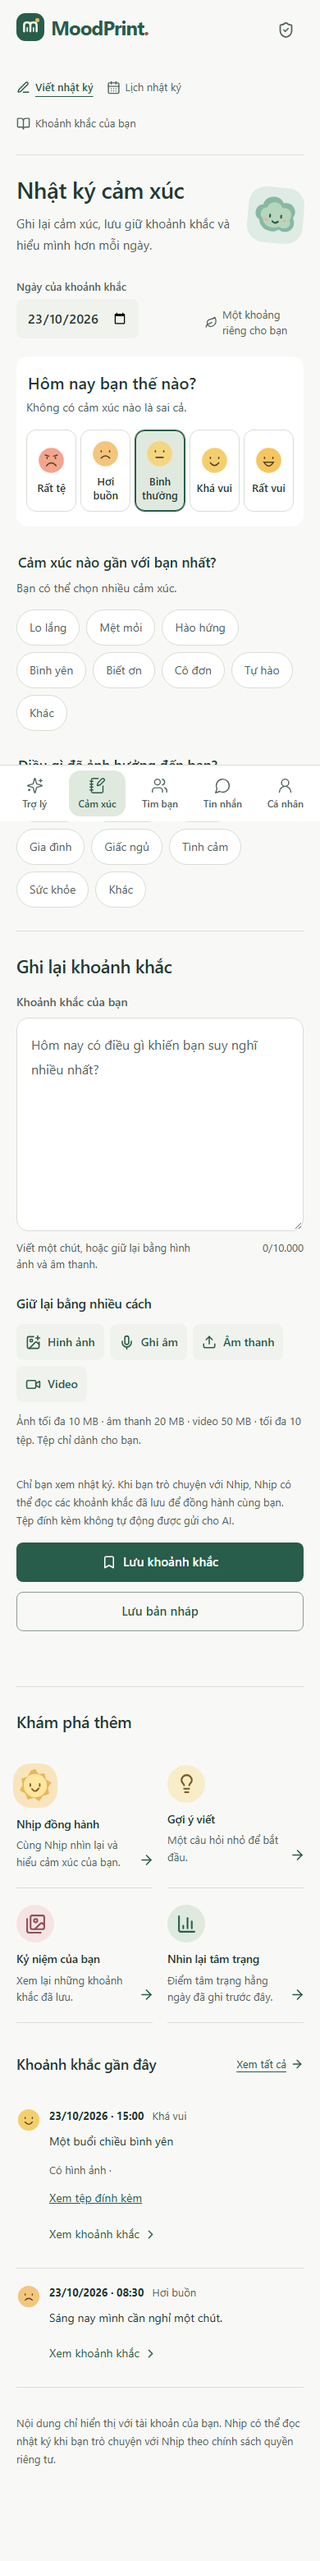
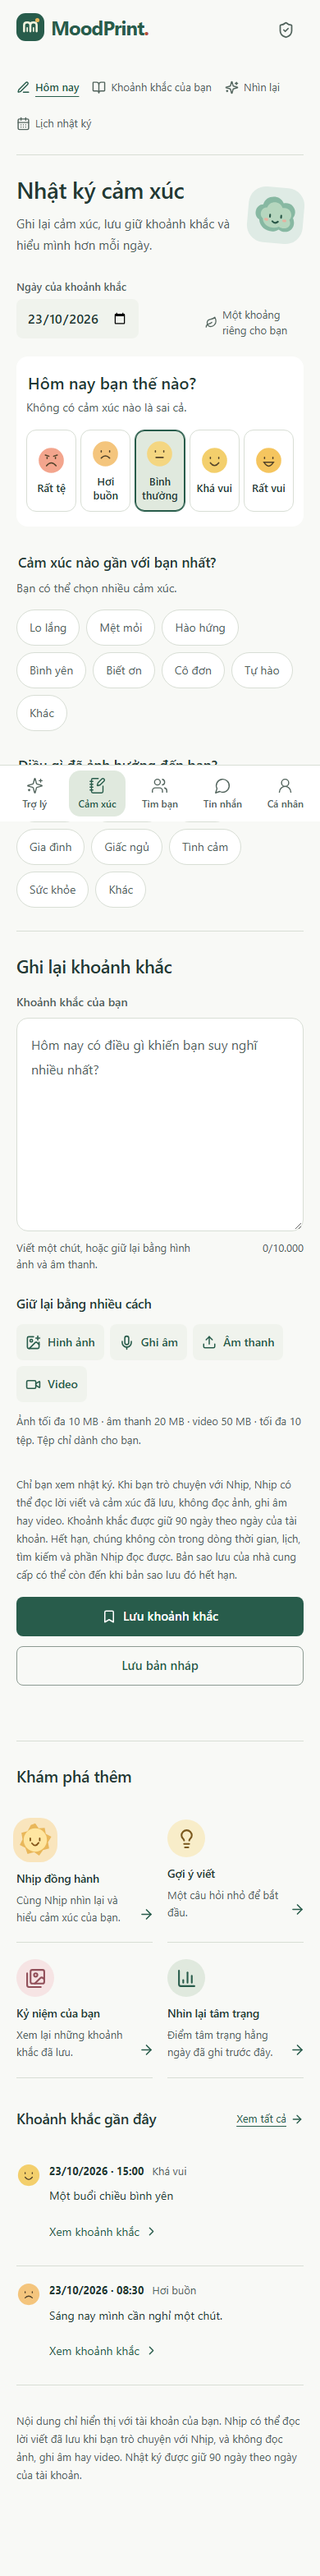
docs(diary): record the blocked migration and timeline QA
Hosted revision 0018 cannot take 0019 while production readiness rejects it. The new reports keep that block separate from the timeline and export-control evidence.

diff --git a/docs/implementation-plans/diary/16-finalization-audit.md b/docs/implementation-plans/diary/16-finalization-audit.md
@@ -1,0 +1,18 @@
+# Diary V2 finalization audit
+
+Branch `feat/diary-experience-v2`. Prior head `2639996dda1eb5777b80c50b0f17bc7202c844ac` matched Draft PR #23 and had a successful `Verify local application` run. This audit records the finalization pass on top of that head. Historical reports [14](14-implementation-progress.md) and [15](15-final-report.md) are unchanged.
+
+| Task | Status | Evidence |
+| --- | --- | --- |
+| F01 Git and PR preflight | PASS | Workspace `E:\MoodPrint`, branch `feat/diary-experience-v2`, remote `origin` GitHub, PR #23 draft, base `main`, mergeable, prior CI success on `2639996`. Unrelated working-tree files (`.gitignore`, `docs/mvp-validation/`, `frontend/evidence/`) were left unstaged. |
+| F02 Supabase project identity | PASS | Management API project `roznanxbiyqybjpvtilq`, name `database`, region `ap-northeast-1`, status `ACTIVE_HEALTHY`, host `db.roznanxbiyqybjpvtilq.supabase.co`, Postgres `17.11`. `backend/.env` contains the same project ref. See [17](17-hosted-migration-verification.md). |
+| F03 Hosted migration 0019 | BLOCKED | Hosted `moodprint.alembic_version` is `0018_app_feedback`. Journal tables are absent. `origin/main` `READY_REVISIONS` is only `0018_app_feedback`, and readiness rejects any other revision. Applying 0019 would fail the deployed app. No compatibility release was deployed. |
+| F04 90-day retention | PASS | Policy unchanged in `journalDateWindow` (89 days back through today) and existing purge tests. Vietnamese explanation added on the composer, home note, and timeline. Provider backups are not claimed to expire immediately. |
+| F05 Export removal | PARTIAL | User-facing download controls removed. Authenticated `/exports` and conversation export routes remain as the owner-scoped data-access path. See [19](19-export-removal-audit.md). |
+| F06 Nhịp text only | PASS | Existing `search_for_ai` returns text, mood, emotions, factors, date, and version only. A key-set assertion was added in `test_journal_ai.py`. No image, audio, or video understanding was added. See [20](20-nhip-text-only-contract.md). |
+| F07 Personal timeline | PASS | Feed grouping, galleries, lightbox, native audio/video, text expansion, edit/delete, and scroll restoration. See [18](18-personal-timeline-redesign.md). |
+| F08 Composer, calendar, discovery | PASS | Existing composer, calendar, and four discovery destinations kept. Prompts updated. “Nhìn lại” opens the Nhịp reflection page, which links to the daily mood chart. |
+| F09 Automated UI verification | PASS | `npm run typecheck`, `npm test` (103), `npm run build`, and Playwright `journal`, `auth`, `chat-history`, `ux-redesign` (100 passed). Axe on the journal surfaces in `journal.spec.ts` reported no violations. |
+| F10 Backend suite for this delta | PARTIAL | The new Nhịp key-set assertion was not executed against PostgreSQL in this session. Prior CI on `2639996` passed the previous suite. The next CI run on this branch is the complete gate. |
+
+Ruling: hosted migration stays blocked until a release whose readiness accepts `0019_journal` is the deployed application, or until an explicitly authorized compatibility release accepts both `0018_app_feedback` and `0019_journal` before the schema move. Additive tables alone do not make the current production image ready.

diff --git a/docs/implementation-plans/diary/18-personal-timeline-redesign.md b/docs/implementation-plans/diary/18-personal-timeline-redesign.md
@@ -1,0 +1,37 @@
+# Personal timeline redesign
+
+Status: **PASS** for the journal surfaces exercised by Playwright.
+
+## What changed
+
+| Area | Change | Files |
+| --- | --- | --- |
+| Destinations | Nhật ký nav is Hôm nay, Khoảnh khắc của bạn, Nhìn lại, and Lịch nhật ký. | `JournalShared.tsx` |
+| Feed | Saved entries group by account-local day (Hôm nay, Hôm qua, or a date) and by month. Newest-first order stays the API order. Paging remains 12 items. | `JournalTimeline.tsx`, `journalModel.ts` |
+| Cards | Time, mood, text with Xem thêm after 220 characters, emotion/factor tags, edit, and confirmed delete. | `JournalShared.tsx` |
+| Images | One, two, three, and four-up grids. Further images show +N. A dialog lightbox supports next, previous, and Escape. URLs load when the cell is near the viewport. | `JournalGallery.tsx`, `journal.css` |
+| Audio and video | Native controls, `preload="none"`, no timeline autoplay. Signed URLs load when the player is near the viewport. | `JournalGallery.tsx` |
+| Text-only moments | No empty media slot. | `JournalEntryCard` |
+| Return scroll | Opening or editing a card stores `journal-feed-scroll` and the feed restores it once. | `JournalShared.tsx`, `JournalTimeline.tsx` |
+| Composer | Mood selection uses a short GSAP scale when motion is allowed. Retention and text-only Nhịp copy sit under the form. | `JournalEditor.tsx` |
+| Prompts | Four optional Vietnamese questions, including smile, thought, thanks, and what made the day memorable. | `journalModel.ts` |
+| Nhìn lại | Companion page keeps Nhịp questions and links to the existing daily mood chart. | `JournalPage.tsx` |
+| Motion | `useMotionPolicy` gates GSAP. Reduced motion skips the feed and mood animations. Contexts use `useGSAP` with revert. | `JournalEditor.tsx`, `JournalTimeline.tsx` |
+
+Calendar behavior was kept: month navigation, mood marker, multi-entry count, and day list. It does not invent moods for empty days. Expired entries stay outside the 90-day query window already enforced by the API and `activeMonthBounds`.
+
+## Tests
+
+- `journalModel.test.ts` covers day labels and grouping. Frontend unit suite: 103 passed.
+- `tests/e2e/journal.spec.ts` passed, including filters, paging, six widths, axe, and the timeline image becoming visible without a separate “Xem tệp đính kèm” step.
+- The timeline evidence PNG uses the suite’s 1×1 fixture image, so it does not demonstrate a photographic collage. The layout CSS is what a real image fills.
+
+## Critique
+
+The rendered mobile check-in and desktop composer keep the warm off-white page, sage selection, and existing left navigation. The timeline reads as a dated list rather than a table. Important points that remain:
+
+- Card actions sit in one row. Delete is confirmed, but it is still close to Edit on a narrow phone.
+- The retention sentence is plain and below the feed. It is accurate, including the provider-backup limit.
+- Gallery motion is a short entrance only. There is no scroll-jacking.
+
+No Critical contrast or axe failure was reported on the journal page, calendar, timeline, or companion scan in `journal.spec.ts`.

diff --git a/docs/implementation-plans/diary/17-hosted-migration-verification.md b/docs/implementation-plans/diary/17-hosted-migration-verification.md
@@ -1,0 +1,45 @@
+# Hosted migration verification
+
+Status: **BLOCKED**. Migration `0019_journal` was not applied.
+
+## Identity
+
+Read-only Supabase Management API calls, using the configured project token, returned:
+
+| Check | Result |
+| --- | --- |
+| Project ID | `roznanxbiyqybjpvtilq` |
+| Name | `database` |
+| Region | `ap-northeast-1` |
+| Status | `ACTIVE_HEALTHY` |
+| Database host | `db.roznanxbiyqybjpvtilq.supabase.co` |
+| Postgres | `17.11` |
+| Query role | `postgres` (Management API, not the application runtime role) |
+| Local `backend/.env` | Same project ref is present. The connection string is not recorded here. |
+
+This matches the project named in [14](14-implementation-progress.md) and [journal storage](../../supabase/journal-storage.md).
+
+## Schema
+
+| Check | Result |
+| --- | --- |
+| `moodprint.alembic_version` | `0018_app_feedback` |
+| `journal_entries` | absent |
+| `journal_media` | absent |
+| `journal_storage_deletions` | absent |
+| `moodprint.moods` | still present; row count was read only as a count, contents were not inspected |
+| Roles present | `anon`, `authenticated`, `moodprint_runtime`, `service_role` |
+| `storage.buckets` `journal-media` | `public = false`, file size limit `52428800` |
+| `storage.buckets` and `storage.objects` RLS | enabled, zero policies (default deny) |
+
+## Why it was not applied
+
+`origin/main` at `9ca7fc8` sets `READY_REVISIONS` to only `0018_app_feedback`. `backend/app/main.py` returns not-ready when `version_num` is outside that tuple. The feature branch accepts only `0019_journal`.
+
+Moving the hosted database to `0019_journal` would make the currently deployed application fail `/api/v1/health/ready` and any lifecycle path that requires readiness. This branch was not deployed. No compatibility image that accepts both revisions was authorized.
+
+The Management backup listing returned `pitr_enabled = false`, `walg_enabled = true`, and an empty `backups` array. That is not evidence of a rehearsed, restorable backup, so the backup gate also fails.
+
+## Rollback
+
+Do not drop tables that were not created. When a later authorized release is deployed, apply the reviewed `0018_app_feedback` → `0019_journal` SQL through `scripts/apply_supabase_review.py` after a new reviewed artifact is approved. Do not edit the previously pinned SQL files. Roll back by serving an application that still accepts `0018_app_feedback` while leaving additive journal tables in place. Do not use `alembic downgrade` on the hosted database.

diff --git a/docs/implementation-plans/diary/19-export-removal-audit.md b/docs/implementation-plans/diary/19-export-removal-audit.md
@@ -1,0 +1,40 @@
+# Export removal audit
+
+Status: **PARTIAL**.
+
+## Removed from the product UI
+
+| Surface | Change |
+| --- | --- |
+| Settings data section | Heading is “Xóa dữ liệu”. The download button, guest download dialog, and “file is ready” notice are gone. Deletion of selected data and account deletion stay. |
+| Conversation info | “Tải xuống cuộc trò chuyện” is gone. Rename and delete stay. |
+| `downloadConversation` | Removed from `AIData.tsx` and `RealApp.tsx`. |
+
+Copy states that people view their journal, moods, memories, and conversations in MoodPrint, and that the app does not create a downloadable file. It does not say that a legal right of access has been extinguished. Provider backup retention is still disclosed on account deletion.
+
+## Preserved on purpose
+
+The authenticated routes remain:
+
+- `POST /api/v1/exports`
+- `GET /api/v1/exports/{job_id}`
+- `GET /api/v1/exports/{job_id}/download`
+- `GET /api/v1/ai/conversations/{conversation_id}/export`
+
+Ruling: these routes are the existing owner-scoped copy of account, consent, mood, journal text/metadata, memory, and social data. The privacy tests use them to prove isolation, expiry, and one-time download. Removing them in this pass would delete that proof and the only complete copy without a replacement access mechanism. Account deletion, guest expiry, and retention cleanup do not depend on the buttons and were left in place.
+
+This is a product conflict, not a claim that every legal obligation is gone. If counsel later requires the routes to disappear, replace the privacy tests with direct owner reads before deleting the handlers.
+
+## Regression checks
+
+Playwright now expects the download buttons to be absent and deletion to remain:
+
+- `tests/e2e/auth.spec.ts`
+- `tests/e2e/ux-redesign.spec.ts`
+- `tests/e2e/chat-history.spec.ts`
+- `tests/fullstack/journeys.spec.ts`
+- `tests/fullstack/mvp.spec.ts`
+- `tests/fullstack/guest-experience.spec.ts`
+- `tests/fullstack/chat-history.spec.ts`
+
+The e2e files above passed in this session (100 tests across journal, auth, chat-history, and ux-redesign). The fullstack files were updated and not re-run here because they need the disposable HTTP and PostgreSQL harness.

diff --git a/docs/implementation-plans/diary/22-final-release-readiness.md b/docs/implementation-plans/diary/22-final-release-readiness.md
@@ -1,0 +1,33 @@
+# Final release readiness
+
+Verdict: **READY_FOR_REVIEW**. Not ready for production release.
+
+## Ready for review
+
+- Personal timeline, composer copy, 90-day explanation, and text-only Nhịp contract are on `feat/diary-experience-v2`.
+- User-facing export buttons and dialogs are removed. Account deletion and guest end remain.
+- Frontend typecheck, unit tests, production build, and 100 Playwright tests passed locally.
+- Hosted project identity, revision `0018_app_feedback`, absent journal tables, and a private `journal-media` bucket were read from the configured project. No hosted DDL was run.
+
+## Not ready for release
+
+1. Hosted migration `0019_journal` is **BLOCKED**. The deployed application accepts only `0018_app_feedback`. See [17](17-hosted-migration-verification.md).
+2. Authenticated export routes remain. See [19](19-export-removal-audit.md).
+3. The new Nhịp payload assertion and the updated fullstack export journeys were not re-run against PostgreSQL here.
+4. No production image was built or deployed. Do not merge this branch only to migrate the database.
+
+## Release order when authorized
+
+1. Review this draft PR.
+2. Ship an application whose readiness accepts `0019_journal` only after the schema is migrated, or ship an explicit compatibility revision list first. Do not point production traffic at this branch while the database is still `0018_app_feedback`.
+3. Approve a new `0018` → `0019` SQL artifact. Do not rewrite pinned SQL.
+4. Confirm a restorable backup, rehearse the upgrade, then apply it.
+5. Confirm `alembic_version`, the three journal tables, runtime grants, RLS, unchanged mood rows, and the private bucket.
+6. Roll back by serving the previous application image. Do not drop journal tables to roll back.
+
+## Risks
+
+- Production readiness fails if 0019 is applied before the new application is the one being served.
+- Production journal routes fail if this application is served before 0019 exists.
+- People who relied on the settings download no longer have a button. The API still performs an owner-scoped copy until a later decision removes it.
+- WAL-G is enabled, but the backup list returned no restorable item and PITR is off. That is not a rehearsed restore.

diff --git a/docs/implementation-plans/diary/21-responsive-visual-qa.md b/docs/implementation-plans/diary/21-responsive-visual-qa.md
@@ -1,0 +1,27 @@
+# Responsive visual QA
+
+Status: **PASS** for the automated journal and redesign suites in this session.
+
+Command, from `frontend/`:
+
+`npx playwright test journal.spec.ts auth.spec.ts chat-history.spec.ts ux-redesign.spec.ts`
+
+Result: **100 passed** in 4.3 minutes.
+
+`journal.spec.ts` covers 360, 390, 430, 768, 1024, and 1440, checks horizontal overflow, and runs axe with `wcag2a`, `wcag2aa`, `wcag21aa`, and `wcag22aa` on the journal page. The evidence capture reported no violations. Updated renders:
+
+- [01-checkin-mobile.png](evidence/01-checkin-mobile.png)
+- [01-checkin-desktop.png](evidence/01-checkin-desktop.png)
+- [02-editor-mobile.png](evidence/02-editor-mobile.png)
+- [03-discovery-mobile.png](evidence/03-discovery-mobile.png)
+- [04-calendar-mobile.png](evidence/04-calendar-mobile.png)
+- [05-timeline-mobile.png](evidence/05-timeline-mobile.png)
+- [06-companion-mobile.png](evidence/06-companion-mobile.png)
+- [viewport-360.png](evidence/viewport-360.png) through [viewport-1440.png](evidence/viewport-1440.png)
+- [mobile-save-clearance.png](evidence/mobile-save-clearance.png)
+
+Also passed in the same command: frontend `tsc --noEmit`, Vitest **103** tests, and `npm run build`.
+
+The timeline screenshot uses the test’s 1×1 image, so the collage looks empty even though the image node is present. Real uploads use the same object-fit frame.
+
+Accessibility notes from the rendered feed: focus rings are on gallery, lightbox, and card actions; delete asks for confirmation; audio and video use native controls; reduced motion disables the GSAP entrance. This is automated evidence, not a certification of every screen reader.

diff --git a/docs/implementation-plans/diary/20-nhip-text-only-contract.md b/docs/implementation-plans/diary/20-nhip-text-only-contract.md
@@ -1,0 +1,19 @@
+# Nhịp text-only journal contract
+
+Status: **PASS** for the existing tool contract. The new assertion was added and not re-run against PostgreSQL in this session.
+
+Nhịp remains the only assistant with `search_journal_entries`. Other assistants do not receive that tool. The model cannot pass a user id; `search_for_ai` filters on the locked account owner.
+
+## Allowed
+
+Saved journal text, mood value, detailed emotions, factors, local date, entry id, and version. Results are a bounded sample inside 90 account-local days. Drafts, other owners, future dates, and entries older than the window are excluded. The backend turns verified ids into `/self/entry/` links. Instructions tell the model not to invent memories, diagnose, or treat a missing read as evidence.
+
+## Not in this release
+
+Image interpretation, OCR, audio transcription, audio understanding, video interpretation, frame analysis, and media embeddings. Media bytes are not selected. `search_for_ai` returns only:
+
+`id`, `version`, `localDate`, `mood`, `emotions`, `factors`, `snippet`, `snippetTruncated`
+
+`test_journal_search_is_owner_saved_date_and_size_bounded` now asserts that key set and that the JSON does not contain `media` or `objectPath`.
+
+Journal-derived context stays on the current run. It is not written into long-term memory or embeddings by this tool. Legacy mood notes stay out of this tool; the separate mood summary still requires an explicit date range and still omits notes.

diff --git a/docs/implementation-plans/diary/14-implementation-progress.md b/docs/implementation-plans/diary/14-implementation-progress.md
@@ -77,3 +77,5 @@ An external `.gitignore` modification appeared after initial audit. It was not w
 ## Final handoff
 
 Verdict: **READY_FOR_REVIEW**. Branch `feat/diary-experience-v2`, base `9ca7fc8`; [Draft PR23](https://github.com/mhiu05/MoodPrint/pull/23). The [final report](15-final-report.md) records features, files, test limits, production prerequisites and rollback. Complete post-fix CI and hosted staging gates remain explicit review/release work, not fabricated PASS results.
+
+Finalization after this checkpoint is recorded separately in [16](16-finalization-audit.md) through [22](22-final-release-readiness.md). Those notes do not replace the results above.
